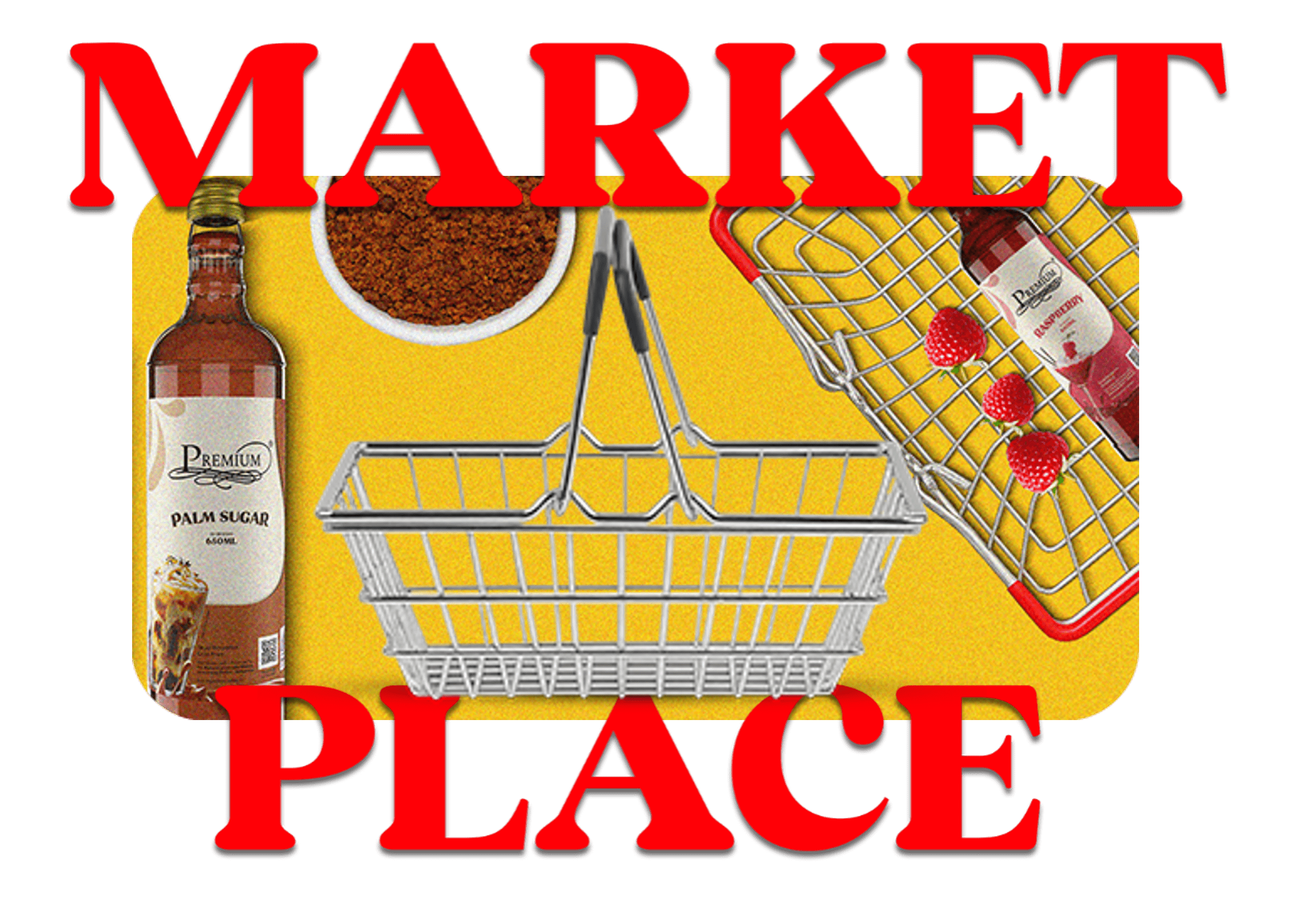
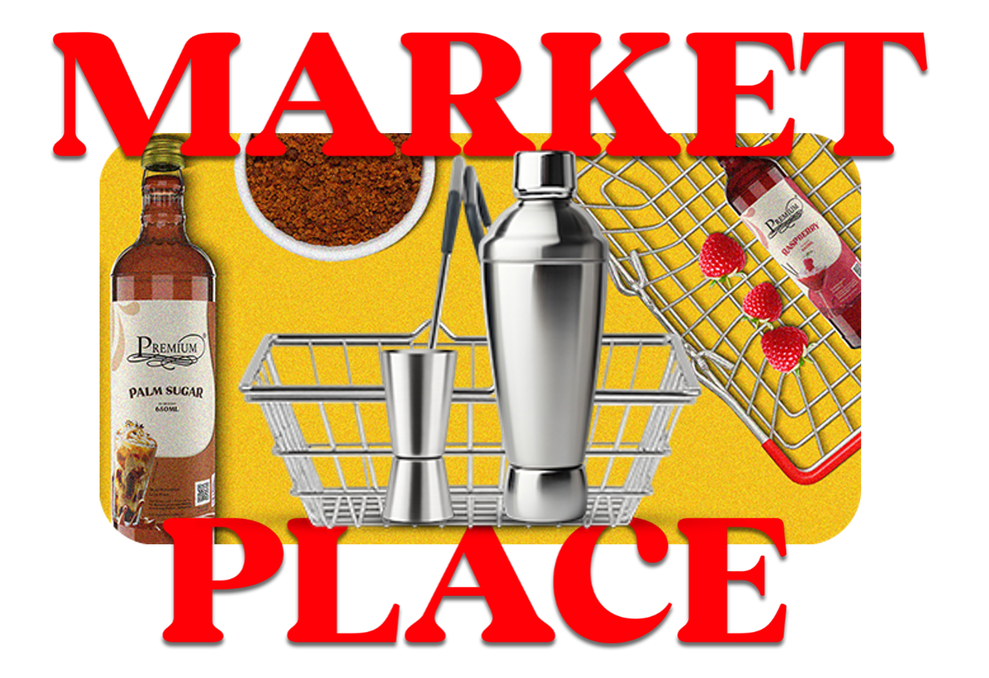
feat: carousel - smaller carousel width - button's ancestor set to relative

diff --git a/app/components/carousel.tsx b/app/components/carousel.tsx
@@ -38,7 +38,7 @@ const Carousel: React.FC<CarouselProps> = ({ items }) => {
 
   return (
     <div
-      className="w-full mx-auto overflow-hidden flex items-center justify-center transition-colors duration-700 ease-in-out"
+      className="relative w-8/12 rounded-lg mx-auto overflow-hidden flex items-center justify-center transition-colors duration-700 ease-in-out"
       style={{
         backgroundColor: items[currentIndex].bgColor || "transparent",
       }}

diff --git a/app/routes/home.tsx b/app/routes/home.tsx
@@ -48,6 +48,7 @@ export function meta({}: Route.MetaArgs) {
 export default function Home() {
   return (
     <div className="flex flex-col min-h-screen pt-20 sm:pt-24 mb-12">
+      <div className="py-4" />
       <Carousel items={carouselItems} />
 
       <div className="py-4" />
